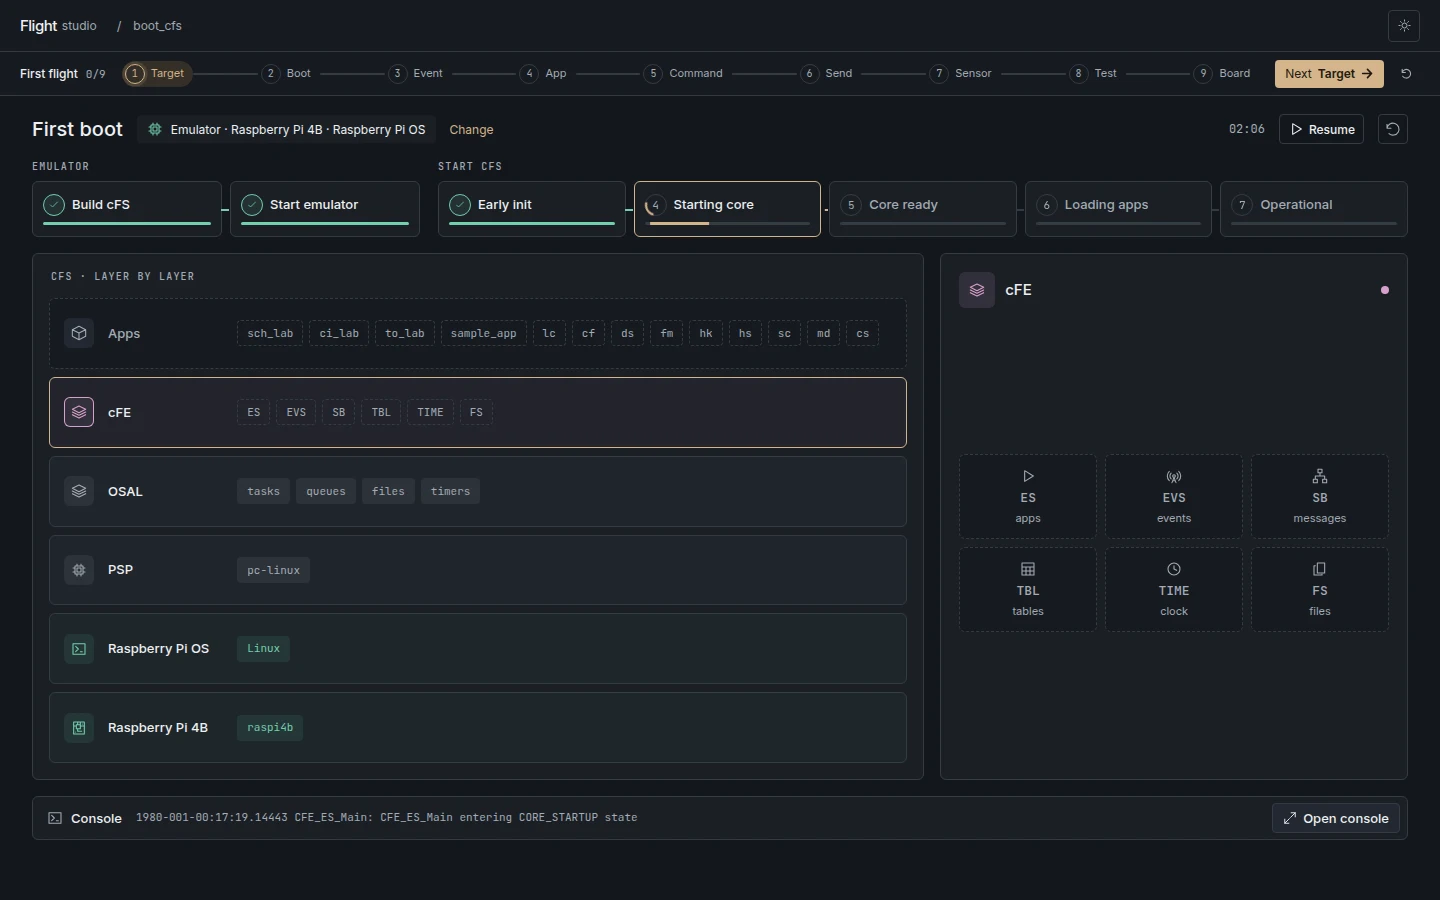
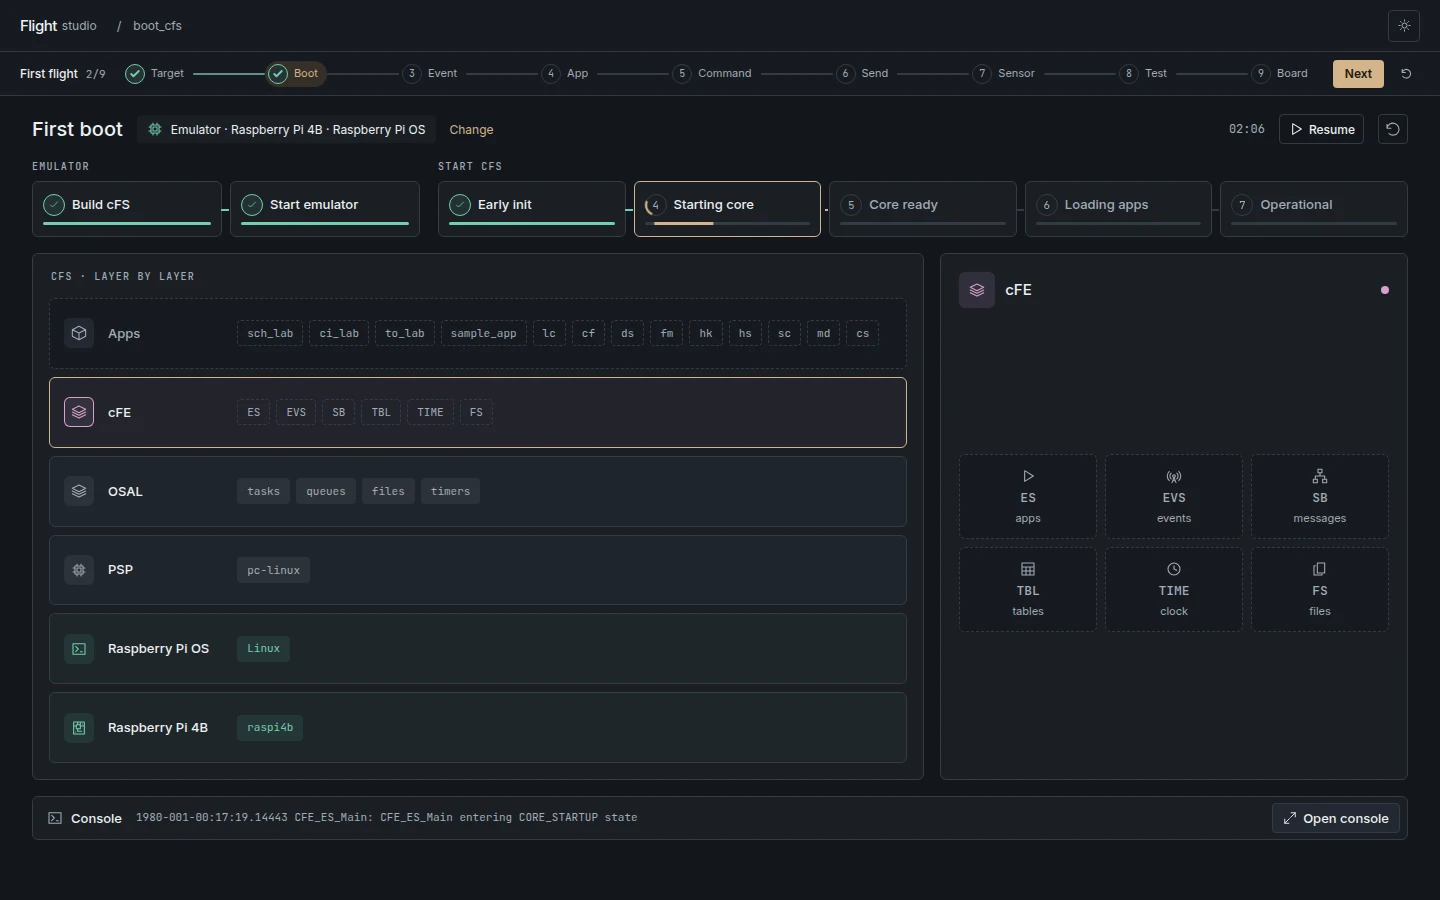
Document and verify the Boot to Event handoff in both themes

diff --git a/docs/design.md b/docs/design.md
@@ -28,7 +28,7 @@ As telas de referência são 1440 × 900 e 1366 × 768. O cabeçalho, o guia e a
 
 ## Guia First flight
 
-A barra de 44 px fica sob o cabeçalho. Cada pílula abre uma área. O número à esquerda conta as etapas com evidência. O primeiro item pendente pulsa, e **Next** aparece quando é preciso mudar de área. O ícone de reinício zera a contagem na própria tela. A pessoa pode continuar com seu arquivo aberto e com as alterações locais no editor. [Guia](../interface/static/journey.js) · [Critérios de conclusão](backend.md#evidência-do-guia)
+A barra de 44 px fica sob o cabeçalho. Cada pílula abre uma área. A pílula destacada acompanha a tela aberta, inclusive ao voltar ou avançar no navegador. Os checks e o contador representam as etapas comprovadas para o alvo em uso. **Next** conduz à etapa seguinte na ordem do guia. O ícone de reinício zera a contagem na própria tela. A pessoa pode continuar com seu arquivo aberto e com as alterações locais no editor. [Guia](../interface/static/journey.js) · [Critérios de conclusão](backend.md#evidência-do-guia)
 
 ```mermaid
 flowchart LR
@@ -44,7 +44,7 @@ flowchart LR
 | Área | Ação e resposta |
 | --- | --- |
 | **Choose target** | As três ilustrações representam Native, Emulator e Board. Ao abrir a página, os grupos aparecem em estado neutro. Ativar um cartão por clique, Enter ou Espaço inicia os três grupos em sequência, inclusive no destino já selecionado. **Install requirements** verifica e corrige o destino. Quando há pendências, **Click + to fix** aponta para os grupos em âmbar. Em **Board**, o host e o usuário salvos abrem o campo correspondente em **Configure**. **Save settings** grava os valores e reinicia as verificações. **Cancel** descarta a edição. O anel acompanha a instalação e dá lugar a um check depois da verificação. **Details** abre os comandos e seus resultados ou o terminal da instalação em andamento. Ambos se sobrepõem ao setup. Os três grupos aprovados liberam **Continue to boot**. |
-| **First boot** | Os cartões acompanham as etapas necessárias para o alvo. A pilha acende conforme o log do voo. Clique em uma camada para inspecionar seu desenho. A seção **Start cFS** traz cinco cartões de Executive Services. Clicar em um marco observado recupera o registro exato e as camadas daquele momento, inclusive quando vários eventos chegam no mesmo milissegundo. O botão **Resume** volta à execução. A pilha ocupa a altura disponível, e a barra do console mantém **Open console** ou **Close console** visível. Escape fecha o console. O replay usa os instantes registrados pelo build e pelo cFS. É possível pausar, retomar e rever as camadas. **Ground Station** abre a estação quando o cFS está em OPERATIONAL. |
+| **First boot** | Os cartões acompanham as etapas necessárias para o alvo. A pilha acende conforme o log do voo. Clique em uma camada para inspecionar seu desenho. A seção **Start cFS** traz cinco cartões de Executive Services. Clicar em um marco observado recupera o registro exato e as camadas daquele momento, inclusive quando vários eventos chegam no mesmo milissegundo. O botão **Resume** volta à execução. A pilha ocupa a altura disponível, e a barra do console mantém **Open console** ou **Close console** visível. Escape fecha o console. O replay usa os instantes registrados pelo build e pelo cFS. É possível pausar, retomar e rever as camadas. Ao chegar a OPERATIONAL, o rodapé confirma **cFS is running**. Use **Next** no guia para abrir **Event** na Ground Station. |
 | **Ground Station** | Na primeira conexão, **Select ENABLE_OUTPUT** prepara o comando com o endereço de retorno. O envio continua sendo uma ação do usuário. O primeiro contato usa `sample_app` ou uma app de missão. O coach distingue pacote recebido, evento do NOOP e incremento do contador. **All apps** abre o restante do catálogo. Clicar em um envio anterior recupera as observações daquele envio, inclusive depois de trocar de comando. |
 | **Mission architecture** | 3D e 2D mostram a mesma missão. Gire, aproxime e selecione uma peça para ver as conexões e ações. Em **Your apps**, **Create your first app** abre **What it is → Its files → Create**. O nome ocupa o espaço tracejado no barramento. O usuário vê os arquivos, o registro de startup e o build antes de confirmar. A engrenagem reúne os parâmetros avançados. |
 | **Code** | Navegar pela árvore abre arquivos e linhas de origem. A atividade **New command** de uma app de missão abre o percurso **Code → Struct → Prototype → Dispatch → Events → Handler → Test**. Uma etapa de código recebe o check depois da visita e da identificação da referência. O handler exige implementação. No passo **Test**, o Studio prepara a revisão que contém o comando e abre seu formulário na estação. Um check final exige as observações de voo do teste. |

diff --git a/docs/validation.md b/docs/validation.md
@@ -4,7 +4,7 @@
 
 | Ambiente | Python | JavaScript |
 | --- | --- | --- |
-| Checkout com o cFS oficial instalado, após a revisão de configuração e primeiro boot | 77 de 77 passaram, inclusive os dois ciclos HTTP de missão e hardware. | 25 de 25 passaram. |
+| Checkout com o cFS oficial instalado, após a revisão de navegação | 79 de 79 passaram, incluindo os ciclos HTTP de missão e hardware e o redirecionamento para o setup antes do clone. | 33 de 33 passaram. |
 | Projeto antes do clone, ensaio anterior | 61 passaram. Os dois ciclos HTTP que dependem dos fontes oficiais foram pulados. | 20 de 20 passaram. |
 
 ## Primeiro voo nativo
@@ -38,7 +38,11 @@ Em 19 de novembro de 2026, o Raspberry Pi OS emulado já havia chegado ao login,
 | Processo e journal | `cfs.service` ativo, PID 1023. O journal dessa invocação registrou os cinco estados do ES, até `CFE_ES_Main entering OPERATIONAL state`. |
 | Retomada do console | Ao reiniciar o servidor do Studio, o mesmo serviço continuou em OPERATIONAL. Um leitor identificado pela invocação systemd recuperou o evento de inicialização **MD/1** e seguiu recebendo novas linhas. |
 | Apps | 13 entradas no startup. Doze apps emitiram seu evento EVS de inicialização. `sch_lab` confirmou a inicialização em texto no console. Seu chip aguarda um evento EVS identificado. |
-| Navegador | A faixa exibiu o build, o emulador e os cinco marcos de início do cFS. Abrir o console preservou a posição da pilha. Na versão atual, o espaço entre o rodapé e o fim da janela ficou em 18 px a 1440 × 900 e 8 px a 1366 × 768. O botão **Ground Station** abriu a etapa Event. |
+| Navegador | A faixa exibiu o build, o emulador e os cinco marcos de início do cFS. Abrir o console preservou a posição da pilha. Na versão atual, o espaço entre o rodapé e o fim da janela ficou em 18 px a 1440 × 900 e 8 px a 1366 × 768. Em OPERATIONAL, **Next** abriu a etapa **Event** no mesmo documento. |
+
+Com a placa física salva no setup e o voo ativo no QEMU, abrimos o Boot diretamente e acompanhamos os quadros renderizados no Chromium. O guia marcou **Boot**, com **Target** e **Boot** concluídos. Ao clicar em **Next**, apareceu **Event**. A estação leu o catálogo do emulador e selecionou `TO_LAB_OUTPUT_ENABLE_CC`. Voltar e avançar no navegador preservaram o alvo. A navegação enviou somente requisições de leitura.
+
+Repetimos o percurso nos dois temas, em 1440 × 900 e 1366 × 768, com atraso adicional de 370 ms nas leituras do hardware, da missão e do catálogo. A tela identificou a área durante o carregamento e coube na janela. Em um ensaio separado, interrompemos uma leitura da missão e outra do catálogo. **Retry** recuperou a estação no mesmo alvo.
 
 [![Voo QEMU em OPERATIONAL na janela do Studio](images/first-flight/boot-qemu-running.webp)](images/first-flight/boot-qemu-running.webp)
 

diff --git a/README.md b/README.md
@@ -17,7 +17,7 @@ A plataforma e o código de voo têm origens separadas. A configuração baixa o
 1. Abra **http://127.0.0.1:8765** e escolha **Native** para a primeira execução.
 2. Clique em **Install requirements**. O Studio verifica **Compiler**, **Python** e **Source**, instala o que falta e verifica o resultado. O **+** permite corrigir só aquele grupo. Durante uma instalação, **Details** abre o terminal sobre a página. Se um instalador precisar de uma senha, o botão passa a **Input required**.
 3. Quando os três grupos passarem, clique em **Continue to boot**. A tela **First boot** acompanha o build e a inicialização. Cada cartão de **Start cFS** corresponde a um estado do núcleo. Clique em um marco já observado para ver as camadas naquele instante. **Resume** volta ao voo. Em **Open console**, você pode localizar `CFE_ES_Main entering OPERATIONAL state`.
-4. Abra **Ground Station** e clique em **Connect**. Envie o comando de **to_lab** para habilitar a saída de telemetria no endereço já preenchido. Aguarde o primeiro pacote e a amostra inicial do contador de **sample_app**. Envie **SAMPLE_APP_NOOP_CC**. O evento com a mensagem NOOP e o aumento de `CommandCounter` confirmam a resposta.
+4. Quando o Boot mostrar **cFS is running**, clique em **Next** no guia. A etapa **Event** abre a Ground Station no alvo do voo. Clique em **Connect**. Envie o comando de **to_lab** para habilitar a saída de telemetria no endereço já preenchido. Aguarde o primeiro pacote e a amostra inicial do contador de **sample_app**. Envie **SAMPLE_APP_NOOP_CC**. O evento com a mensagem NOOP e o aumento de `CommandCounter` confirmam a resposta.
 5. Clique em **App** na barra **First flight** e em **Create your first app**. Dê um nome, confira os arquivos de C e as entradas de build e startup. Confirme em **Create** para gravar a proposta. **Next → add a command** abre a atividade no editor dessa app.
 
 ![Primeiro boot com as camadas da missão](docs/images/first-flight/boot-1440-dark-studio.webp)
